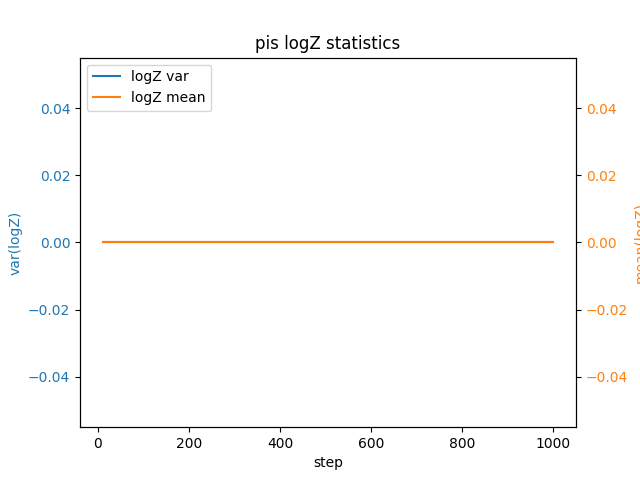
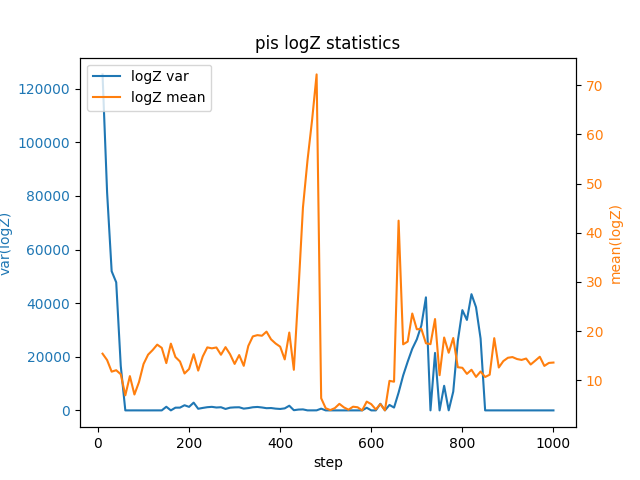
debug

diff --git a/mcjax/process/algo.py b/mcjax/process/algo.py
@@ -564,6 +564,42 @@ class PISAlgorithm(BaseAlgorithm):
 
     def make_loss(self):
         return PISLoss(add_score=self.cfg.add_score)
+    
+    
+    @partial(jax.jit, static_argnums=(0, 3))
+    def sample(self, params, rng_key, num_samples: int):
+        """Forward SDE simulation with learned control"""
+        T_total = 1.0  
+        delta_t = T_total / self.cfg.K
+        
+        key, sub = jr.split(rng_key)
+        x0 = self.init_dist.sample(sub, num_samples) 
+        
+        def body(carry, k):
+            x_curr, key = carry
+            key, sub = jr.split(key)
+            
+            # Get control at current state and time
+            t_val = k * delta_t
+            t_batch = jnp.full((num_samples,), t_val, dtype=jnp.float32)
+            u = self.score_fn(params, t_batch, x_curr)  
+            
+            # Euler-Maruyama step
+            noise = jr.normal(sub, shape=x_curr.shape) * jnp.sqrt(delta_t)
+            x_next = x_curr + u * delta_t + noise
+            
+            return (x_next, key), x_next
+        
+        init_carry = (x0, key)
+        (x_final, _), seq = jax.lax.scan(
+            body,
+            init_carry,
+            jnp.arange(self.cfg.K) 
+        )
+        
+        # Include initial state in sequence
+        full_seq = jnp.concatenate(x0[None, ...], seq, axis=0)
+        return full_seq
 
 
 class ControlledMonteCarloDiffusion(BaseAlgorithm):

diff --git a/mcjax/process/losses.py b/mcjax/process/losses.py
@@ -185,11 +185,15 @@ class PISLoss(BaseLoss):
             x  = x + u*self.delta_t + dW
             return (x, running, key), None
 
-        times = jnp.arange(self.n_steps, dtype=jnp.float32)*self.delta_t
+        times = jnp.arange(self.n_steps, dtype=jnp.float32)
         (xT, running, _), _ = jax.lax.scan(body, (x, running_cost, key), times)
 
         # terminal cost Ψ = log q_T(x_T) - log p(x_T)
-        log_qT = process.log_marginal(xT, self.n_steps)
+        T_total = 1.0  
+        var_total = 1.0 + T_total  # Initial variance (1) + Brownian variance (T)
+        d = xT.shape[-1]
+        log_qT = -0.5 * d * jnp.log(2 * jnp.pi * var_total) \
+                - 0.5 * jnp.sum(xT**2, axis=-1) / var_total
         log_p  = target_dist.batch(xT)
         psi    = log_qT - log_p
 
@@ -245,7 +249,7 @@ class CMCDLoss(BaseLoss):
             x = mu_fwd + noise
             return (x, lr, key), None
 
-        times = jnp.arange(self.n_steps, dtype=jnp.float32)*self.delta_t
+        times = jnp.arange(self.n_steps, dtype=jnp.float32)
         (xT, log_ratio, _), _ = jax.lax.scan(body, (x, log_ratio, key), times)
 
         # endpoint: + log p_ref(xT) - log p_target(xT)

diff --git a/mcjax/process/trainer.py b/mcjax/process/trainer.py
@@ -23,7 +23,7 @@ class Trainer:
                  state: train_state.TrainState,
                  batch_size: int,
                  num_steps: int,
-                 if_logZ: bool = False):
+                 if_logZ: bool):
         self.alg         = algorithm
         self.process     = process
         self.init_dist   = init_dist
@@ -89,7 +89,6 @@ class Trainer:
             # every 100 steps, print step and current loss
             def do_print(_):
                 jax.debug.print("At step {}, loss = {}", step, loss)
-                jax.debug.print("Last logZ values: {}", logz_vals[step // 10])
                 return None
 
             # branch on (step % 100 == 0)
